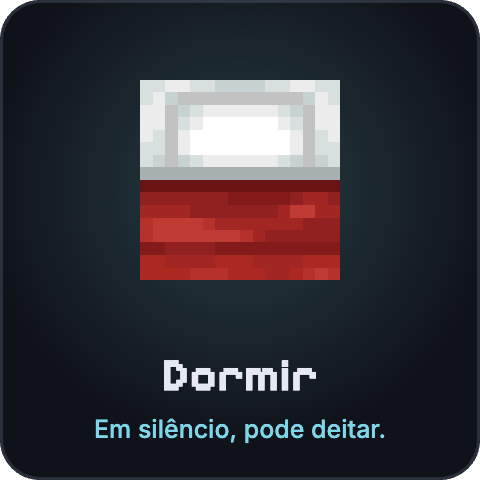
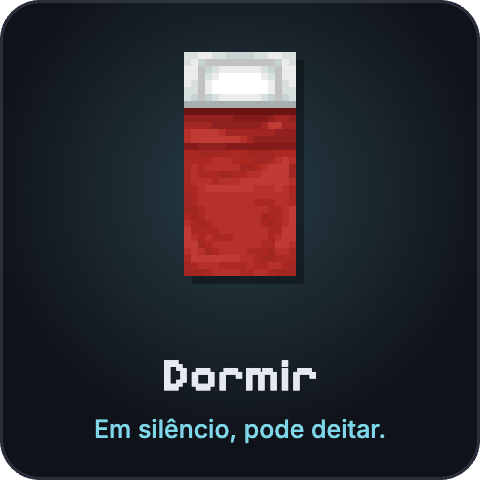
CurseForge: botões no estilo do Minecraft e cama vista de cima inteira
- Botões de link usam a textura do botão do Minecraft (nine-slice) em
  escala 2, com 40 px de altura, no lugar das pílulas grandes.
- Cartão "Dormir": cama inteira vista de cima (cabeceira + pé), no lugar
  do quadrado da cabeceira.

Changed region(s): [[0.2812, 0.0938, 0.7188, 0.5938]]

diff --git a/branding/descricao-curseforge.html b/branding/descricao-curseforge.html
@@ -1,5 +1,5 @@
 <p style="text-align: center;"><img src="https://raw.githubusercontent.com/pedrorreiro/hushfall/main/branding/curseforge/banner.png" alt="Hushfall: à noite, uma criatura cega caça pelo som" width="1344" height="576" /></p>
-<p style="text-align: center;"><a href="https://hushfall-minecraft.vercel.app/" target="_blank" rel="noopener"><img src="https://raw.githubusercontent.com/pedrorreiro/hushfall/main/branding/curseforge/btn_site.png" alt="Site oficial" height="28" /></a> <a href="https://github.com/pedrorreiro/hushfall" target="_blank" rel="noopener"><img src="https://raw.githubusercontent.com/pedrorreiro/hushfall/main/branding/curseforge/btn_github.png" alt="GitHub" height="28" /></a> <a href="https://github.com/pedrorreiro/hushfall/blob/main/REGRAS.md" target="_blank" rel="noopener"><img src="https://raw.githubusercontent.com/pedrorreiro/hushfall/main/branding/curseforge/btn_regras.png" alt="Regras completas" height="28" /></a></p>
+<p style="text-align: center;"><a href="https://hushfall-minecraft.vercel.app/" target="_blank" rel="noopener"><img src="https://raw.githubusercontent.com/pedrorreiro/hushfall/main/branding/curseforge/btn_site.png" alt="Site oficial" width="132" height="40" /></a> <a href="https://github.com/pedrorreiro/hushfall" target="_blank" rel="noopener"><img src="https://raw.githubusercontent.com/pedrorreiro/hushfall/main/branding/curseforge/btn_github.png" alt="GitHub" width="120" height="40" /></a> <a href="https://github.com/pedrorreiro/hushfall/blob/main/REGRAS.md" target="_blank" rel="noopener"><img src="https://raw.githubusercontent.com/pedrorreiro/hushfall/main/branding/curseforge/btn_regras.png" alt="Regras completas" width="208" height="40" /></a></p>
 <h3>Sobre</h3>
 <p>Em algumas noites, algo acorda: o <strong>Ouvinte</strong>, uma criatura alta, sem olhos e com orelhas enormes. Ele não enxerga você, mas ouve tudo. Luz, invisibilidade e esconderijos não enganam. <strong>Só o silêncio funciona.</strong> De dia nada muda: construa, explore, plante. Quando o sol se põe, você aprende a ficar quieto.</p>
 <p style="text-align: center;"><img src="https://raw.githubusercontent.com/pedrorreiro/hushfall/main/branding/curseforge/divider.png" alt="" width="1344" height="48" /></p>
